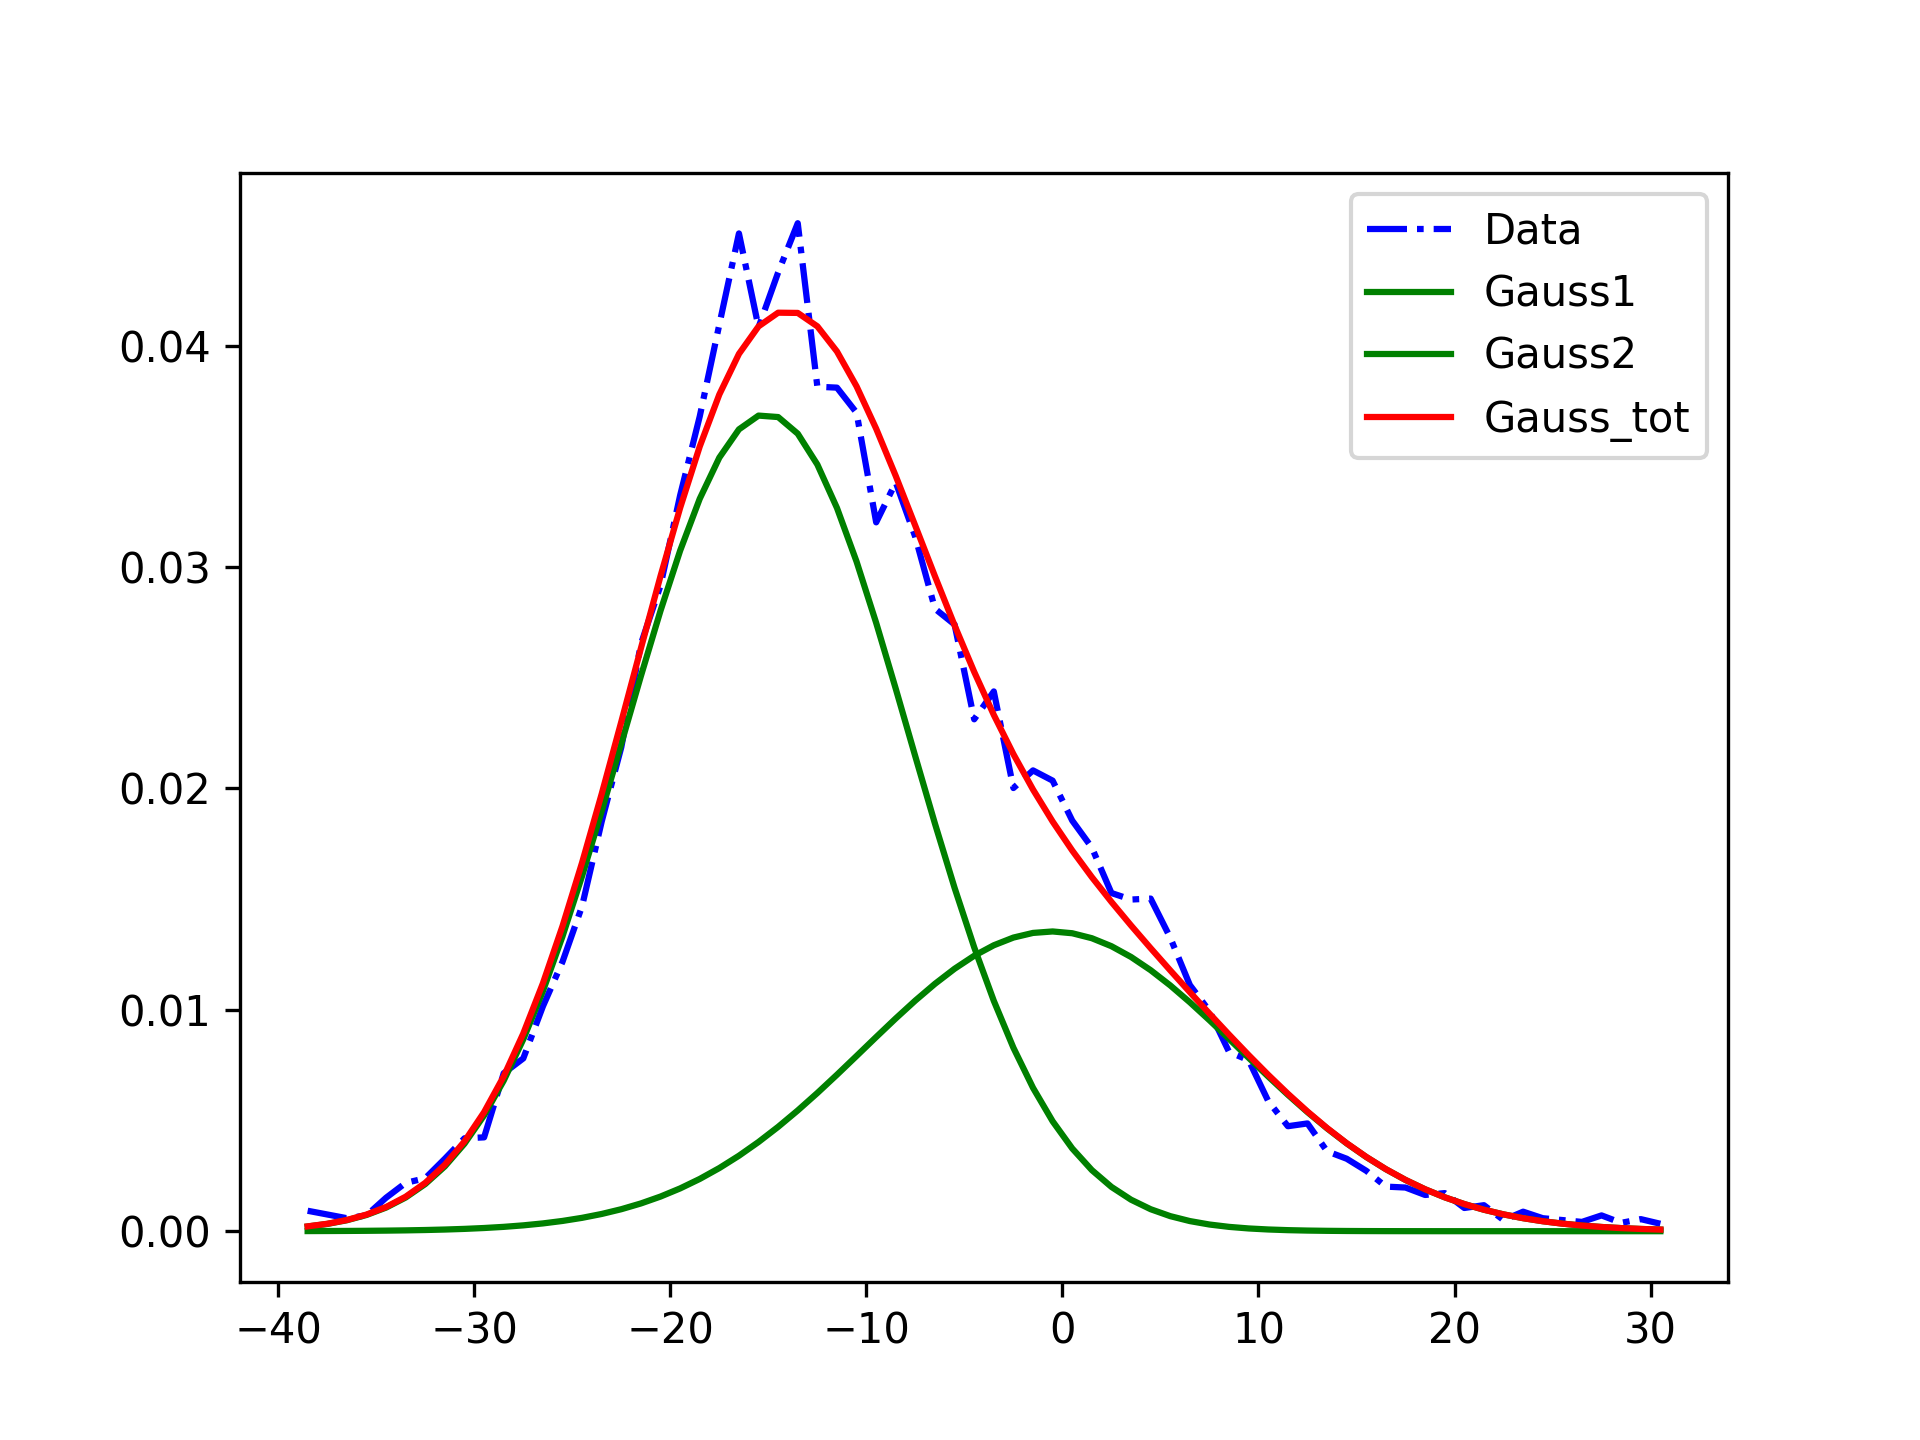
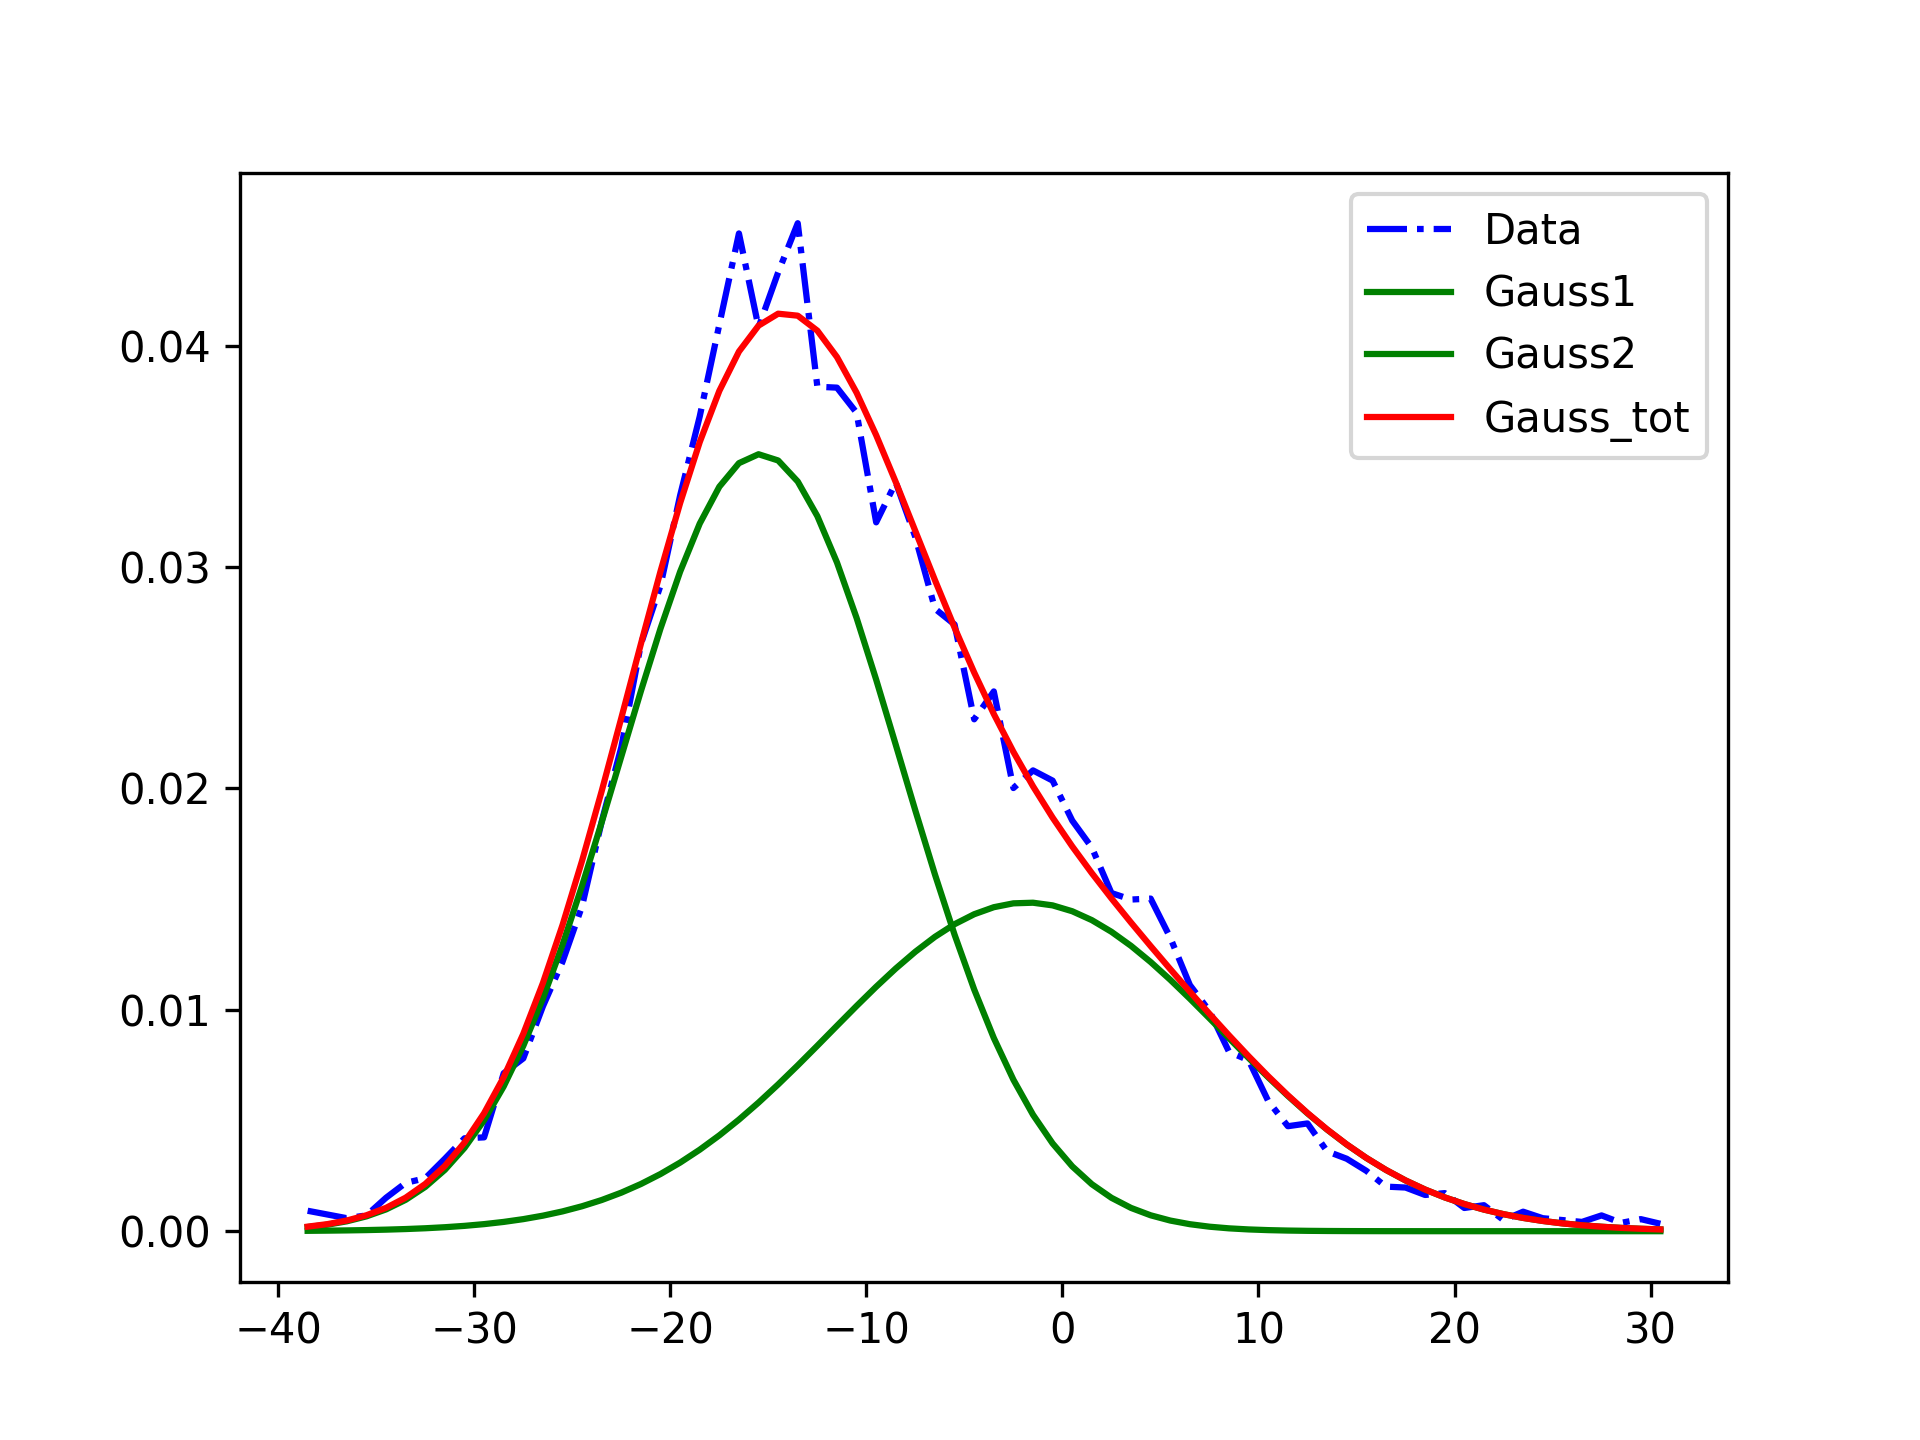
Casa2

diff --git a/script/test_fit.py b/script/test_fit.py
@@ -33,6 +33,12 @@ cur_slice = from_slice
 #        weights_VR = {-190: 0.26612315, -188: 0.318673418241, ...}
 weights_AM = collections.OrderedDict()
 weights_VR = collections.OrderedDict()
+
+clf = mixture.GaussianMixture(n_components=2, covariance_type='full',verbose=2,verbose_interval=10,
+                              random_state=random.SystemRandom().randrange(0,4095),
+                              means_init=[[-17],[0]], weights_init=[1 / 2, 1 / 2],
+#                              init_params="kmeans",
+                              tol=1e-5 )
 while (cur_slice < to_slice):
 
     slice_name = "Slices_" + str(cur_slice) + "_" + str(cur_slice + deltaslice) + "_" + crystal_name
@@ -79,11 +85,7 @@ while (cur_slice < to_slice):
 
 
 
-    clf = mixture.GaussianMixture(n_components=2, covariance_type='full',verbose=2,verbose_interval=10,
-    #                              means_init=[[-17],[0]], weights_init=[1 / 2, 1 / 2],
-    #                              random_state=random.SystemRandom().randrange(0,4095),
-                                  init_params="kmeans",
-                                  tol=1e-5 )
+
     clf.fit(nd_distribution.reshape(-1, 1))
 
 
@@ -151,17 +153,30 @@ pp.pprint(weights_AM)
 print("weights_VR:")
 pp.pprint(weights_VR)
 
-from scipy import stats
-x_AM = list(weights_AM.keys() )
 
+
+# Fit weights/proprotions
+from scipy import stats
 slopeAM, interceptAM, r_valueAM, p_valueAM, std_errAM = stats.linregress(list(weights_AM.keys() ), list(weights_AM.values() ))
 print("slopeAM: ", slopeAM, "interceptAM: ", interceptAM)
 print("First extreme: ", interceptAM / slopeAM, (interceptAM - 1) / slopeAM)
 
 
+x_AM = list( weights_AM.keys() )
+y_AM = list( weights_AM.values() )
+x_VR = list( weights_VR.keys() )
+y_VR = list( weights_VR.values() )
+
+x_fitAM = np.linspace(-(interceptAM - 1) / slopeAM,-interceptAM / slopeAM,100)
+y_fitAM = [slopeAM*xx + interceptAM for xx in x_fitAM]
+
 plt.clf()
-plt.plot(list(weights_AM.keys()),list(weights_AM.values() ),".",label = "AM Probability", color='b')
-plt.plot(list(weights_VR.keys()),list(weights_VR.values() ),".",label = "VR Probability", color='b')
+plt.plot(x_AM, y_AM,".",label = "AM Data", color='b')
+plt.plot(x_fitAM, y_fitAM,"-",label = "AM Proportion", color='b')
+
+
+plt.plot(x_VR,y_VR,".",label = "VR Probability", color='g')
+plt.legend()
 plt.show()
 
 
